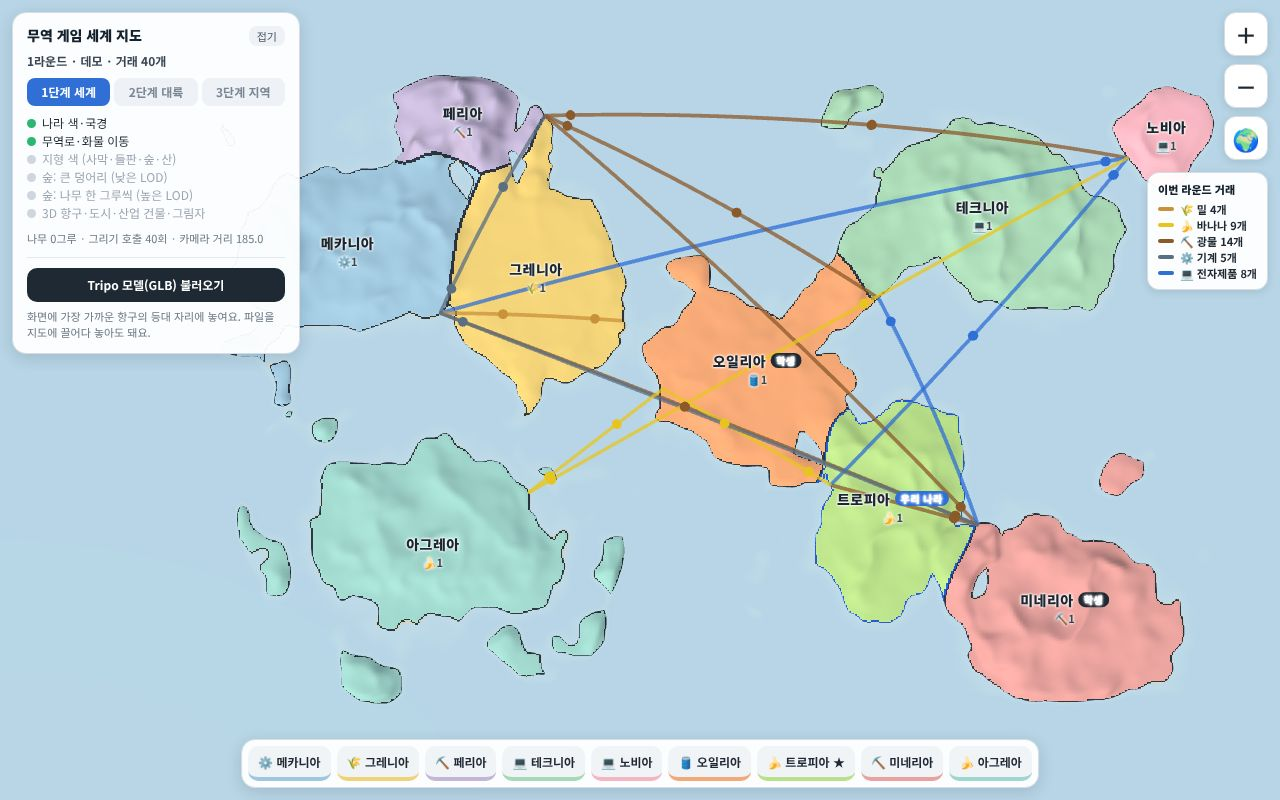
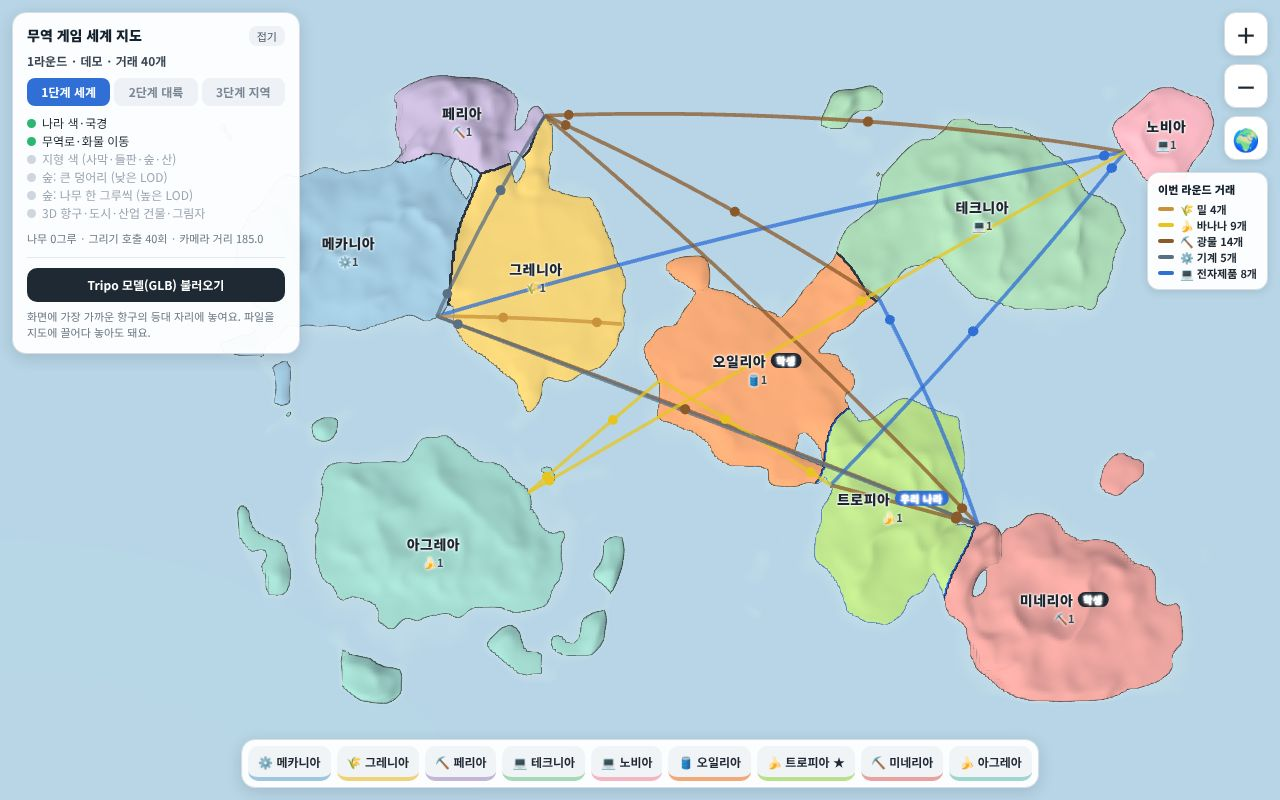
세계 지도: 멀리서 볼 때 해안선·국경 계단 무늬 없앰
- 나라 색을 부드러운(선형) 텍스처로 칠하고 육지 판정은 실제 지형 높이로 함
- 해안선은 화면 픽셀 기준(fwidth)으로 그려 매끈하게
- 해안에서 땅 높이가 0부터 이어지게 해 지형 격자를 따라 생기던 톱니 없앰
- 검사 15개 통과

Claude-Session: https://claude.ai/code/session_01DBh8zz2smfNDqNuUWMpsJ4

diff --git a/webapp/map/dist/world-map-demo.html b/webapp/map/dist/world-map-demo.html
@@ -92,7 +92,7 @@ function createWorldMap(container, THREE, opts) {
         var land = 1 - best;
         for (k = 0; k < BR.length; k++) { var b = BR[k], ex = b[2] - b[0], ez = b[3] - b[1], tt = clamp(((wx - b[0]) * ex + (wz - b[1]) * ez) / (ex * ex + ez * ez), 0.2, 0.8), qx = wx - b[0] - ex * tt, qz = wz - b[1] - ez * tt; land = Math.max(land, 1 - Math.sqrt(qx * qx + qz * qz) / b[4] - 0.25); }
         var isl = (fbm3(x * 0.07 + 100, z * 0.07, 15) - 0.69) * 4 - Math.max(0, best - 1.9) * 3; land = Math.max(land, isl);
-        var f = land + (fbm3(x * 0.11, z * 0.11, 3) - 0.5) * 0.5 + (vnoise(x * 0.4 + 7, z * 0.4, 5) - 0.5) * 0.1;
+        var f = land + (fbm3(x * 0.11, z * 0.11, 3) - 0.5) * 0.5 + (vnoise(x * 0.4 + 7, z * 0.4, 5) - 0.5) * 0.04;
         f -= sstep(WX - 14, WX - 3, Math.abs(x)) * 1.5 + sstep(WZ - 12, WZ - 3, Math.abs(z)) * 1.5;
         F[idx] = f;
         var sw = 0, mnt = 0, fp = 0; for (k = 0; k < BIOMES.length; k++) bAmt[k] = 0;
@@ -108,7 +108,7 @@ function createWorldMap(container, THREE, opts) {
           var r = fbm3(x * 0.085 + 50, z * 0.085 - 20, 4), ridge = 1 - Math.abs(2 * r - 1); ridge = ridge * ridge * ridge;
           var hills = fbm3(x * 0.25, z * 0.25, 6);
           h = 0.04 + sstep(0, 0.35, f) * 0.2 + mnt * ridge * 2.4 * sstep(0.05, 0.45, f) + (hills - 0.5) * 0.2 * (0.4 + mnt);
-          h = Math.max(0.03, h);
+          h = Math.min(Math.max(h, Math.min(0.03, f * 3.2)), f * 3.2); // 해안에서 높이가 0부터 이어지게(끊기면 해안선이 톱니가 됨)
           // 자연색
           c = [0, 0, 0]; for (k = 0; k < BIOMES.length; k++) { var bc = BIO[BIOMES[k]].c; c[0] += bc[0] * bAmt[k]; c[1] += bc[1] * bAmt[k]; c[2] += bc[2] * bAmt[k]; }
           var pl = bAmt[1];
@@ -315,9 +315,20 @@ function createWorldMap(container, THREE, opts) {
 
   // ───────────────────────── 지형 메시 ─────────────────────────
   for (var fi = 0; fi < FW * FH; fi++) natData[fi * 4 + 3] = F[fi] > 0 ? clamp(FLD[fi] * 255, 0, 255) : 0;
+  var polCol = new Uint8Array(polData), seen = new Uint8Array(FW * FH);
+  for (var pi = 0; pi < FW * FH; pi++) seen[pi] = polData[pi * 4 + 3] > 0 ? 1 : 0;
+  for (var it = 0; it < 10; it++) {
+    var nxt = seen.slice();
+    for (var pj = 1; pj < FH - 1; pj++) for (var pk = 1; pk < FW - 1; pk++) {
+      var q0 = pj * FW + pk; if (seen[q0]) continue;
+      var nb = seen[q0 - 1] ? q0 - 1 : seen[q0 + 1] ? q0 + 1 : seen[q0 - FW] ? q0 - FW : seen[q0 + FW] ? q0 + FW : -1;
+      if (nb < 0) continue; polCol[q0 * 4] = polCol[nb * 4]; polCol[q0 * 4 + 1] = polCol[nb * 4 + 1]; polCol[q0 * 4 + 2] = polCol[nb * 4 + 2]; nxt[q0] = 1;
+    }
+    seen = nxt;
+  }
   function dataTex(data, linear) { var t = new THREE.DataTexture(data, FW, FH, THREE.RGBAFormat); t.magFilter = t.minFilter = linear ? THREE.LinearFilter : THREE.NearestFilter; t.generateMipmaps = false; t.needsUpdate = true; return t; }
-  var natTex = dataTex(natData, true), polTex = dataTex(polData, false);
-  var terrU = { uMix: { value: 1 }, uSel: { value: -1 }, uMe: { value: -1 }, uDetail: { value: 0 }, uBorder: { value: 1 }, uPol: { value: polTex }, uTexel: { value: new THREE.Vector2(1 / FW, 1 / FH) } };
+  var natTex = dataTex(natData, true), polTex = dataTex(polData, false), polColTex = dataTex(polCol, true);
+  var terrU = { uMix: { value: 1 }, uSel: { value: -1 }, uMe: { value: -1 }, uDetail: { value: 0 }, uBorder: { value: 1 }, uPol: { value: polTex }, uPolC: { value: polColTex }, uTexel: { value: new THREE.Vector2(1 / FW, 1 / FH) } };
   var terrGeo = (function () {
     var step = 2, VW = FW / step + 1, VH = FH / step + 1, pos = new Float32Array(VW * VH * 3), uv = new Float32Array(VW * VH * 2);
     for (var j = 0; j < VH; j++) for (var i = 0; i < VW; i++) {
@@ -331,9 +342,9 @@ function createWorldMap(container, THREE, opts) {
   var terrMat = new THREE.MeshLambertMaterial({ map: natTex });
   terrMat.onBeforeCompile = function (sh) {
     for (var k in terrU) sh.uniforms[k] = terrU[k];
-    sh.vertexShader = sh.vertexShader.replace('#include <common>', '#include <common>\nvarying vec2 vXZ;').replace('#include <begin_vertex>', '#include <begin_vertex>\nvXZ = position.xz;');
+    sh.vertexShader = sh.vertexShader.replace('#include <common>', '#include <common>\nvarying vec2 vXZ;\nvarying float vY;').replace('#include <begin_vertex>', '#include <begin_vertex>\nvXZ = position.xz; vY = position.y;');
     sh.fragmentShader = sh.fragmentShader.replace('#include <common>', [
-      '#include <common>', 'uniform float uMix; uniform float uSel; uniform float uMe; uniform float uDetail; uniform float uBorder;', 'uniform sampler2D uPol; uniform vec2 uTexel;', 'varying vec2 vXZ;',
+      '#include <common>', 'uniform float uMix; uniform float uSel; uniform float uMe; uniform float uDetail; uniform float uBorder;', 'uniform sampler2D uPol; uniform sampler2D uPolC; uniform vec2 uTexel;', 'varying vec2 vXZ;', 'varying float vY;',
       'float h21(vec2 p){ return fract(sin(dot(p, vec2(127.1,311.7)))*43758.5453); }',
       'float vn2(vec2 p){ vec2 i=floor(p); vec2 f=fract(p); f=f*f*(3.0-2.0*f); return mix(mix(h21(i),h21(i+vec2(1.0,0.0)),f.x), mix(h21(i+vec2(0.0,1.0)),h21(i+vec2(1.0,1.0)),f.x), f.y); }'].join('\n'))
       .replace('#include <map_fragment>', [
@@ -344,15 +355,21 @@ function createWorldMap(container, THREE, opts) {
         '  fcol = mix(fcol, diffuseColor.rgb, 0.3); float fedge = min(min(fq.x, 1.0 - fq.x), min(fq.y, 1.0 - fq.y)); fcol *= mix(0.8, 1.0, smoothstep(0.0, 0.05, fedge)) * (0.95 + 0.05 * sin(fq0.x * 60.0));',
         '  diffuseColor.rgb = mix(diffuseColor.rgb, fcol, fa * step(0.2, h21(fcell + 3.0)));',
         '  diffuseColor.rgb *= mix(1.0, 0.82 + 0.34*dn, uDetail);',
-        '  vec4 pc = texture2D(uPol, vUv); float a0 = pc.a; float land = step(0.02, a0);',
-        '  float bd = step(0.01, abs(texture2D(uPol, vUv + vec2(uTexel.x, 0.0)).a - a0)) + step(0.01, abs(texture2D(uPol, vUv - vec2(uTexel.x, 0.0)).a - a0))',
-        '           + step(0.01, abs(texture2D(uPol, vUv + vec2(0.0, uTexel.y)).a - a0)) + step(0.01, abs(texture2D(uPol, vUv - vec2(0.0, uTexel.y)).a - a0));',
-        '  bd = clamp(bd, 0.0, 1.0) * (0.55 + 0.45 * uMix);',
+        '  float a0 = texture2D(uPol, vUv).a;',
+        '  float land = smoothstep(-0.004, 0.02, vY);',
+        '  vec3 pcol = texture2D(uPolC, vUv).rgb;',
+        '  vec2 hx = vec2(uTexel.x * 0.6, 0.0); vec2 hy = vec2(0.0, uTexel.y * 0.6);',
+        '  float g = length(texture2D(uPolC, vUv + hx).rgb - texture2D(uPolC, vUv - hx).rgb) + length(texture2D(uPolC, vUv + hy).rgb - texture2D(uPolC, vUv - hy).rgb);',
+        '  float bd = smoothstep(0.05, 0.2, g) * land;',
+        '  float coast = 0.0;',
+        '#if __VERSION__ >= 300',
+        '  coast = (1.0 - smoothstep(0.0, fwidth(vY) * 1.6 + 0.0001, vY)) * step(0.0, vY);',
+        '#endif',
         '  float nid = floor(a0 * 255.0 / 20.0 + 0.5) - 1.0;',
-        '  diffuseColor.rgb = mix(diffuseColor.rgb, pc.rgb, uMix * land);',
-        '  if (land > 0.5 && abs(nid - uSel) < 0.5) diffuseColor.rgb = mix(diffuseColor.rgb, vec3(1.0, 0.94, 0.6), 0.45);',
-        '  float me = (land > 0.5 && abs(nid - uMe) < 0.5) ? 1.0 : 0.0;',
-        '  diffuseColor.rgb = mix(diffuseColor.rgb, mix(vec3(0.17, 0.21, 0.26), vec3(0.12, 0.35, 0.85), me), clamp(bd, 0.0, 1.0) * land * uBorder);'
+        '  diffuseColor.rgb = mix(diffuseColor.rgb, pcol, uMix * land);',
+        '  if (land > 0.5 && a0 > 0.02 && abs(nid - uSel) < 0.5) diffuseColor.rgb = mix(diffuseColor.rgb, vec3(1.0, 0.94, 0.6), 0.45);',
+        '  float me = (a0 > 0.02 && abs(nid - uMe) < 0.5) ? 1.0 : 0.0;',
+        '  diffuseColor.rgb = mix(diffuseColor.rgb, mix(vec3(0.17, 0.21, 0.26), vec3(0.12, 0.35, 0.85), me), clamp(bd * (0.55 + 0.45 * uMix) + coast * uMix * 0.85, 0.0, 1.0) * uBorder);'
       ].join('\n'));
   };
   var terrain = new THREE.Mesh(terrGeo, terrMat); terrain.receiveShadow = true; scene.add(terrain);

diff --git a/webapp/map/dist/world-map-demo.jsx b/webapp/map/dist/world-map-demo.jsx
@@ -83,7 +83,7 @@ function createWorldMap(container, THREE, opts) {
         var land = 1 - best;
         for (k = 0; k < BR.length; k++) { var b = BR[k], ex = b[2] - b[0], ez = b[3] - b[1], tt = clamp(((wx - b[0]) * ex + (wz - b[1]) * ez) / (ex * ex + ez * ez), 0.2, 0.8), qx = wx - b[0] - ex * tt, qz = wz - b[1] - ez * tt; land = Math.max(land, 1 - Math.sqrt(qx * qx + qz * qz) / b[4] - 0.25); }
         var isl = (fbm3(x * 0.07 + 100, z * 0.07, 15) - 0.69) * 4 - Math.max(0, best - 1.9) * 3; land = Math.max(land, isl);
-        var f = land + (fbm3(x * 0.11, z * 0.11, 3) - 0.5) * 0.5 + (vnoise(x * 0.4 + 7, z * 0.4, 5) - 0.5) * 0.1;
+        var f = land + (fbm3(x * 0.11, z * 0.11, 3) - 0.5) * 0.5 + (vnoise(x * 0.4 + 7, z * 0.4, 5) - 0.5) * 0.04;
         f -= sstep(WX - 14, WX - 3, Math.abs(x)) * 1.5 + sstep(WZ - 12, WZ - 3, Math.abs(z)) * 1.5;
         F[idx] = f;
         var sw = 0, mnt = 0, fp = 0; for (k = 0; k < BIOMES.length; k++) bAmt[k] = 0;
@@ -99,7 +99,7 @@ function createWorldMap(container, THREE, opts) {
           var r = fbm3(x * 0.085 + 50, z * 0.085 - 20, 4), ridge = 1 - Math.abs(2 * r - 1); ridge = ridge * ridge * ridge;
           var hills = fbm3(x * 0.25, z * 0.25, 6);
           h = 0.04 + sstep(0, 0.35, f) * 0.2 + mnt * ridge * 2.4 * sstep(0.05, 0.45, f) + (hills - 0.5) * 0.2 * (0.4 + mnt);
-          h = Math.max(0.03, h);
+          h = Math.min(Math.max(h, Math.min(0.03, f * 3.2)), f * 3.2); // 해안에서 높이가 0부터 이어지게(끊기면 해안선이 톱니가 됨)
           // 자연색
           c = [0, 0, 0]; for (k = 0; k < BIOMES.length; k++) { var bc = BIO[BIOMES[k]].c; c[0] += bc[0] * bAmt[k]; c[1] += bc[1] * bAmt[k]; c[2] += bc[2] * bAmt[k]; }
           var pl = bAmt[1];
@@ -306,9 +306,20 @@ function createWorldMap(container, THREE, opts) {
 
   // ───────────────────────── 지형 메시 ─────────────────────────
   for (var fi = 0; fi < FW * FH; fi++) natData[fi * 4 + 3] = F[fi] > 0 ? clamp(FLD[fi] * 255, 0, 255) : 0;
+  var polCol = new Uint8Array(polData), seen = new Uint8Array(FW * FH);
+  for (var pi = 0; pi < FW * FH; pi++) seen[pi] = polData[pi * 4 + 3] > 0 ? 1 : 0;
+  for (var it = 0; it < 10; it++) {
+    var nxt = seen.slice();
+    for (var pj = 1; pj < FH - 1; pj++) for (var pk = 1; pk < FW - 1; pk++) {
+      var q0 = pj * FW + pk; if (seen[q0]) continue;
+      var nb = seen[q0 - 1] ? q0 - 1 : seen[q0 + 1] ? q0 + 1 : seen[q0 - FW] ? q0 - FW : seen[q0 + FW] ? q0 + FW : -1;
+      if (nb < 0) continue; polCol[q0 * 4] = polCol[nb * 4]; polCol[q0 * 4 + 1] = polCol[nb * 4 + 1]; polCol[q0 * 4 + 2] = polCol[nb * 4 + 2]; nxt[q0] = 1;
+    }
+    seen = nxt;
+  }
   function dataTex(data, linear) { var t = new THREE.DataTexture(data, FW, FH, THREE.RGBAFormat); t.magFilter = t.minFilter = linear ? THREE.LinearFilter : THREE.NearestFilter; t.generateMipmaps = false; t.needsUpdate = true; return t; }
-  var natTex = dataTex(natData, true), polTex = dataTex(polData, false);
-  var terrU = { uMix: { value: 1 }, uSel: { value: -1 }, uMe: { value: -1 }, uDetail: { value: 0 }, uBorder: { value: 1 }, uPol: { value: polTex }, uTexel: { value: new THREE.Vector2(1 / FW, 1 / FH) } };
+  var natTex = dataTex(natData, true), polTex = dataTex(polData, false), polColTex = dataTex(polCol, true);
+  var terrU = { uMix: { value: 1 }, uSel: { value: -1 }, uMe: { value: -1 }, uDetail: { value: 0 }, uBorder: { value: 1 }, uPol: { value: polTex }, uPolC: { value: polColTex }, uTexel: { value: new THREE.Vector2(1 / FW, 1 / FH) } };
   var terrGeo = (function () {
     var step = 2, VW = FW / step + 1, VH = FH / step + 1, pos = new Float32Array(VW * VH * 3), uv = new Float32Array(VW * VH * 2);
     for (var j = 0; j < VH; j++) for (var i = 0; i < VW; i++) {
@@ -322,9 +333,9 @@ function createWorldMap(container, THREE, opts) {
   var terrMat = new THREE.MeshLambertMaterial({ map: natTex });
   terrMat.onBeforeCompile = function (sh) {
     for (var k in terrU) sh.uniforms[k] = terrU[k];
-    sh.vertexShader = sh.vertexShader.replace('#include <common>', '#include <common>\nvarying vec2 vXZ;').replace('#include <begin_vertex>', '#include <begin_vertex>\nvXZ = position.xz;');
+    sh.vertexShader = sh.vertexShader.replace('#include <common>', '#include <common>\nvarying vec2 vXZ;\nvarying float vY;').replace('#include <begin_vertex>', '#include <begin_vertex>\nvXZ = position.xz; vY = position.y;');
     sh.fragmentShader = sh.fragmentShader.replace('#include <common>', [
-      '#include <common>', 'uniform float uMix; uniform float uSel; uniform float uMe; uniform float uDetail; uniform float uBorder;', 'uniform sampler2D uPol; uniform vec2 uTexel;', 'varying vec2 vXZ;',
+      '#include <common>', 'uniform float uMix; uniform float uSel; uniform float uMe; uniform float uDetail; uniform float uBorder;', 'uniform sampler2D uPol; uniform sampler2D uPolC; uniform vec2 uTexel;', 'varying vec2 vXZ;', 'varying float vY;',
       'float h21(vec2 p){ return fract(sin(dot(p, vec2(127.1,311.7)))*43758.5453); }',
       'float vn2(vec2 p){ vec2 i=floor(p); vec2 f=fract(p); f=f*f*(3.0-2.0*f); return mix(mix(h21(i),h21(i+vec2(1.0,0.0)),f.x), mix(h21(i+vec2(0.0,1.0)),h21(i+vec2(1.0,1.0)),f.x), f.y); }'].join('\n'))
       .replace('#include <map_fragment>', [
@@ -335,15 +346,21 @@ function createWorldMap(container, THREE, opts) {
         '  fcol = mix(fcol, diffuseColor.rgb, 0.3); float fedge = min(min(fq.x, 1.0 - fq.x), min(fq.y, 1.0 - fq.y)); fcol *= mix(0.8, 1.0, smoothstep(0.0, 0.05, fedge)) * (0.95 + 0.05 * sin(fq0.x * 60.0));',
         '  diffuseColor.rgb = mix(diffuseColor.rgb, fcol, fa * step(0.2, h21(fcell + 3.0)));',
         '  diffuseColor.rgb *= mix(1.0, 0.82 + 0.34*dn, uDetail);',
-        '  vec4 pc = texture2D(uPol, vUv); float a0 = pc.a; float land = step(0.02, a0);',
-        '  float bd = step(0.01, abs(texture2D(uPol, vUv + vec2(uTexel.x, 0.0)).a - a0)) + step(0.01, abs(texture2D(uPol, vUv - vec2(uTexel.x, 0.0)).a - a0))',
-        '           + step(0.01, abs(texture2D(uPol, vUv + vec2(0.0, uTexel.y)).a - a0)) + step(0.01, abs(texture2D(uPol, vUv - vec2(0.0, uTexel.y)).a - a0));',
-        '  bd = clamp(bd, 0.0, 1.0) * (0.55 + 0.45 * uMix);',
+        '  float a0 = texture2D(uPol, vUv).a;',
+        '  float land = smoothstep(-0.004, 0.02, vY);',
+        '  vec3 pcol = texture2D(uPolC, vUv).rgb;',
+        '  vec2 hx = vec2(uTexel.x * 0.6, 0.0); vec2 hy = vec2(0.0, uTexel.y * 0.6);',
+        '  float g = length(texture2D(uPolC, vUv + hx).rgb - texture2D(uPolC, vUv - hx).rgb) + length(texture2D(uPolC, vUv + hy).rgb - texture2D(uPolC, vUv - hy).rgb);',
+        '  float bd = smoothstep(0.05, 0.2, g) * land;',
+        '  float coast = 0.0;',
+        '#if __VERSION__ >= 300',
+        '  coast = (1.0 - smoothstep(0.0, fwidth(vY) * 1.6 + 0.0001, vY)) * step(0.0, vY);',
+        '#endif',
         '  float nid = floor(a0 * 255.0 / 20.0 + 0.5) - 1.0;',
-        '  diffuseColor.rgb = mix(diffuseColor.rgb, pc.rgb, uMix * land);',
-        '  if (land > 0.5 && abs(nid - uSel) < 0.5) diffuseColor.rgb = mix(diffuseColor.rgb, vec3(1.0, 0.94, 0.6), 0.45);',
-        '  float me = (land > 0.5 && abs(nid - uMe) < 0.5) ? 1.0 : 0.0;',
-        '  diffuseColor.rgb = mix(diffuseColor.rgb, mix(vec3(0.17, 0.21, 0.26), vec3(0.12, 0.35, 0.85), me), clamp(bd, 0.0, 1.0) * land * uBorder);'
+        '  diffuseColor.rgb = mix(diffuseColor.rgb, pcol, uMix * land);',
+        '  if (land > 0.5 && a0 > 0.02 && abs(nid - uSel) < 0.5) diffuseColor.rgb = mix(diffuseColor.rgb, vec3(1.0, 0.94, 0.6), 0.45);',
+        '  float me = (a0 > 0.02 && abs(nid - uMe) < 0.5) ? 1.0 : 0.0;',
+        '  diffuseColor.rgb = mix(diffuseColor.rgb, mix(vec3(0.17, 0.21, 0.26), vec3(0.12, 0.35, 0.85), me), clamp(bd * (0.55 + 0.45 * uMix) + coast * uMix * 0.85, 0.0, 1.0) * uBorder);'
       ].join('\n'));
   };
   var terrain = new THREE.Mesh(terrGeo, terrMat); terrain.receiveShadow = true; scene.add(terrain);

diff --git a/webapp/map/src/map-core.js b/webapp/map/src/map-core.js
@@ -78,7 +78,7 @@ function createWorldMap(container, THREE, opts) {
         var land = 1 - best;
         for (k = 0; k < BR.length; k++) { var b = BR[k], ex = b[2] - b[0], ez = b[3] - b[1], tt = clamp(((wx - b[0]) * ex + (wz - b[1]) * ez) / (ex * ex + ez * ez), 0.2, 0.8), qx = wx - b[0] - ex * tt, qz = wz - b[1] - ez * tt; land = Math.max(land, 1 - Math.sqrt(qx * qx + qz * qz) / b[4] - 0.25); }
         var isl = (fbm3(x * 0.07 + 100, z * 0.07, 15) - 0.69) * 4 - Math.max(0, best - 1.9) * 3; land = Math.max(land, isl);
-        var f = land + (fbm3(x * 0.11, z * 0.11, 3) - 0.5) * 0.5 + (vnoise(x * 0.4 + 7, z * 0.4, 5) - 0.5) * 0.1;
+        var f = land + (fbm3(x * 0.11, z * 0.11, 3) - 0.5) * 0.5 + (vnoise(x * 0.4 + 7, z * 0.4, 5) - 0.5) * 0.04;
         f -= sstep(WX - 14, WX - 3, Math.abs(x)) * 1.5 + sstep(WZ - 12, WZ - 3, Math.abs(z)) * 1.5;
         F[idx] = f;
         var sw = 0, mnt = 0, fp = 0; for (k = 0; k < BIOMES.length; k++) bAmt[k] = 0;
@@ -94,7 +94,7 @@ function createWorldMap(container, THREE, opts) {
           var r = fbm3(x * 0.085 + 50, z * 0.085 - 20, 4), ridge = 1 - Math.abs(2 * r - 1); ridge = ridge * ridge * ridge;
           var hills = fbm3(x * 0.25, z * 0.25, 6);
           h = 0.04 + sstep(0, 0.35, f) * 0.2 + mnt * ridge * 2.4 * sstep(0.05, 0.45, f) + (hills - 0.5) * 0.2 * (0.4 + mnt);
-          h = Math.max(0.03, h);
+          h = Math.min(Math.max(h, Math.min(0.03, f * 3.2)), f * 3.2); // 해안에서 높이가 0부터 이어지게(끊기면 해안선이 톱니가 됨)
           // 자연색
           c = [0, 0, 0]; for (k = 0; k < BIOMES.length; k++) { var bc = BIO[BIOMES[k]].c; c[0] += bc[0] * bAmt[k]; c[1] += bc[1] * bAmt[k]; c[2] += bc[2] * bAmt[k]; }
           var pl = bAmt[1];
@@ -301,9 +301,20 @@ function createWorldMap(container, THREE, opts) {
 
   // ───────────────────────── 지형 메시 ─────────────────────────
   for (var fi = 0; fi < FW * FH; fi++) natData[fi * 4 + 3] = F[fi] > 0 ? clamp(FLD[fi] * 255, 0, 255) : 0;
+  var polCol = new Uint8Array(polData), seen = new Uint8Array(FW * FH);
+  for (var pi = 0; pi < FW * FH; pi++) seen[pi] = polData[pi * 4 + 3] > 0 ? 1 : 0;
+  for (var it = 0; it < 10; it++) {
+    var nxt = seen.slice();
+    for (var pj = 1; pj < FH - 1; pj++) for (var pk = 1; pk < FW - 1; pk++) {
+      var q0 = pj * FW + pk; if (seen[q0]) continue;
+      var nb = seen[q0 - 1] ? q0 - 1 : seen[q0 + 1] ? q0 + 1 : seen[q0 - FW] ? q0 - FW : seen[q0 + FW] ? q0 + FW : -1;
+      if (nb < 0) continue; polCol[q0 * 4] = polCol[nb * 4]; polCol[q0 * 4 + 1] = polCol[nb * 4 + 1]; polCol[q0 * 4 + 2] = polCol[nb * 4 + 2]; nxt[q0] = 1;
+    }
+    seen = nxt;
+  }
   function dataTex(data, linear) { var t = new THREE.DataTexture(data, FW, FH, THREE.RGBAFormat); t.magFilter = t.minFilter = linear ? THREE.LinearFilter : THREE.NearestFilter; t.generateMipmaps = false; t.needsUpdate = true; return t; }
-  var natTex = dataTex(natData, true), polTex = dataTex(polData, false);
-  var terrU = { uMix: { value: 1 }, uSel: { value: -1 }, uMe: { value: -1 }, uDetail: { value: 0 }, uBorder: { value: 1 }, uPol: { value: polTex }, uTexel: { value: new THREE.Vector2(1 / FW, 1 / FH) } };
+  var natTex = dataTex(natData, true), polTex = dataTex(polData, false), polColTex = dataTex(polCol, true);
+  var terrU = { uMix: { value: 1 }, uSel: { value: -1 }, uMe: { value: -1 }, uDetail: { value: 0 }, uBorder: { value: 1 }, uPol: { value: polTex }, uPolC: { value: polColTex }, uTexel: { value: new THREE.Vector2(1 / FW, 1 / FH) } };
   var terrGeo = (function () {
     var step = 2, VW = FW / step + 1, VH = FH / step + 1, pos = new Float32Array(VW * VH * 3), uv = new Float32Array(VW * VH * 2);
     for (var j = 0; j < VH; j++) for (var i = 0; i < VW; i++) {
@@ -317,9 +328,9 @@ function createWorldMap(container, THREE, opts) {
   var terrMat = new THREE.MeshLambertMaterial({ map: natTex });
   terrMat.onBeforeCompile = function (sh) {
     for (var k in terrU) sh.uniforms[k] = terrU[k];
-    sh.vertexShader = sh.vertexShader.replace('#include <common>', '#include <common>\nvarying vec2 vXZ;').replace('#include <begin_vertex>', '#include <begin_vertex>\nvXZ = position.xz;');
+    sh.vertexShader = sh.vertexShader.replace('#include <common>', '#include <common>\nvarying vec2 vXZ;\nvarying float vY;').replace('#include <begin_vertex>', '#include <begin_vertex>\nvXZ = position.xz; vY = position.y;');
     sh.fragmentShader = sh.fragmentShader.replace('#include <common>', [
-      '#include <common>', 'uniform float uMix; uniform float uSel; uniform float uMe; uniform float uDetail; uniform float uBorder;', 'uniform sampler2D uPol; uniform vec2 uTexel;', 'varying vec2 vXZ;',
+      '#include <common>', 'uniform float uMix; uniform float uSel; uniform float uMe; uniform float uDetail; uniform float uBorder;', 'uniform sampler2D uPol; uniform sampler2D uPolC; uniform vec2 uTexel;', 'varying vec2 vXZ;', 'varying float vY;',
       'float h21(vec2 p){ return fract(sin(dot(p, vec2(127.1,311.7)))*43758.5453); }',
       'float vn2(vec2 p){ vec2 i=floor(p); vec2 f=fract(p); f=f*f*(3.0-2.0*f); return mix(mix(h21(i),h21(i+vec2(1.0,0.0)),f.x), mix(h21(i+vec2(0.0,1.0)),h21(i+vec2(1.0,1.0)),f.x), f.y); }'].join('\n'))
       .replace('#include <map_fragment>', [
@@ -330,15 +341,21 @@ function createWorldMap(container, THREE, opts) {
         '  fcol = mix(fcol, diffuseColor.rgb, 0.3); float fedge = min(min(fq.x, 1.0 - fq.x), min(fq.y, 1.0 - fq.y)); fcol *= mix(0.8, 1.0, smoothstep(0.0, 0.05, fedge)) * (0.95 + 0.05 * sin(fq0.x * 60.0));',
         '  diffuseColor.rgb = mix(diffuseColor.rgb, fcol, fa * step(0.2, h21(fcell + 3.0)));',
         '  diffuseColor.rgb *= mix(1.0, 0.82 + 0.34*dn, uDetail);',
-        '  vec4 pc = texture2D(uPol, vUv); float a0 = pc.a; float land = step(0.02, a0);',
-        '  float bd = step(0.01, abs(texture2D(uPol, vUv + vec2(uTexel.x, 0.0)).a - a0)) + step(0.01, abs(texture2D(uPol, vUv - vec2(uTexel.x, 0.0)).a - a0))',
-        '           + step(0.01, abs(texture2D(uPol, vUv + vec2(0.0, uTexel.y)).a - a0)) + step(0.01, abs(texture2D(uPol, vUv - vec2(0.0, uTexel.y)).a - a0));',
-        '  bd = clamp(bd, 0.0, 1.0) * (0.55 + 0.45 * uMix);',
+        '  float a0 = texture2D(uPol, vUv).a;',
+        '  float land = smoothstep(-0.004, 0.02, vY);',
+        '  vec3 pcol = texture2D(uPolC, vUv).rgb;',
+        '  vec2 hx = vec2(uTexel.x * 0.6, 0.0); vec2 hy = vec2(0.0, uTexel.y * 0.6);',
+        '  float g = length(texture2D(uPolC, vUv + hx).rgb - texture2D(uPolC, vUv - hx).rgb) + length(texture2D(uPolC, vUv + hy).rgb - texture2D(uPolC, vUv - hy).rgb);',
+        '  float bd = smoothstep(0.05, 0.2, g) * land;',
+        '  float coast = 0.0;',
+        '#if __VERSION__ >= 300',
+        '  coast = (1.0 - smoothstep(0.0, fwidth(vY) * 1.6 + 0.0001, vY)) * step(0.0, vY);',
+        '#endif',
         '  float nid = floor(a0 * 255.0 / 20.0 + 0.5) - 1.0;',
-        '  diffuseColor.rgb = mix(diffuseColor.rgb, pc.rgb, uMix * land);',
-        '  if (land > 0.5 && abs(nid - uSel) < 0.5) diffuseColor.rgb = mix(diffuseColor.rgb, vec3(1.0, 0.94, 0.6), 0.45);',
-        '  float me = (land > 0.5 && abs(nid - uMe) < 0.5) ? 1.0 : 0.0;',
-        '  diffuseColor.rgb = mix(diffuseColor.rgb, mix(vec3(0.17, 0.21, 0.26), vec3(0.12, 0.35, 0.85), me), clamp(bd, 0.0, 1.0) * land * uBorder);'
+        '  diffuseColor.rgb = mix(diffuseColor.rgb, pcol, uMix * land);',
+        '  if (land > 0.5 && a0 > 0.02 && abs(nid - uSel) < 0.5) diffuseColor.rgb = mix(diffuseColor.rgb, vec3(1.0, 0.94, 0.6), 0.45);',
+        '  float me = (a0 > 0.02 && abs(nid - uMe) < 0.5) ? 1.0 : 0.0;',
+        '  diffuseColor.rgb = mix(diffuseColor.rgb, mix(vec3(0.17, 0.21, 0.26), vec3(0.12, 0.35, 0.85), me), clamp(bd * (0.55 + 0.45 * uMix) + coast * uMix * 0.85, 0.0, 1.0) * uBorder);'
       ].join('\n'));
   };
   var terrain = new THREE.Mesh(terrGeo, terrMat); terrain.receiveShadow = true; scene.add(terrain);

diff --git a/webapp/map/world-map.js b/webapp/map/world-map.js
@@ -79,7 +79,7 @@ function createWorldMap(container, THREE, opts) {
         var land = 1 - best;
         for (k = 0; k < BR.length; k++) { var b = BR[k], ex = b[2] - b[0], ez = b[3] - b[1], tt = clamp(((wx - b[0]) * ex + (wz - b[1]) * ez) / (ex * ex + ez * ez), 0.2, 0.8), qx = wx - b[0] - ex * tt, qz = wz - b[1] - ez * tt; land = Math.max(land, 1 - Math.sqrt(qx * qx + qz * qz) / b[4] - 0.25); }
         var isl = (fbm3(x * 0.07 + 100, z * 0.07, 15) - 0.69) * 4 - Math.max(0, best - 1.9) * 3; land = Math.max(land, isl);
-        var f = land + (fbm3(x * 0.11, z * 0.11, 3) - 0.5) * 0.5 + (vnoise(x * 0.4 + 7, z * 0.4, 5) - 0.5) * 0.1;
+        var f = land + (fbm3(x * 0.11, z * 0.11, 3) - 0.5) * 0.5 + (vnoise(x * 0.4 + 7, z * 0.4, 5) - 0.5) * 0.04;
         f -= sstep(WX - 14, WX - 3, Math.abs(x)) * 1.5 + sstep(WZ - 12, WZ - 3, Math.abs(z)) * 1.5;
         F[idx] = f;
         var sw = 0, mnt = 0, fp = 0; for (k = 0; k < BIOMES.length; k++) bAmt[k] = 0;
@@ -95,7 +95,7 @@ function createWorldMap(container, THREE, opts) {
           var r = fbm3(x * 0.085 + 50, z * 0.085 - 20, 4), ridge = 1 - Math.abs(2 * r - 1); ridge = ridge * ridge * ridge;
           var hills = fbm3(x * 0.25, z * 0.25, 6);
           h = 0.04 + sstep(0, 0.35, f) * 0.2 + mnt * ridge * 2.4 * sstep(0.05, 0.45, f) + (hills - 0.5) * 0.2 * (0.4 + mnt);
-          h = Math.max(0.03, h);
+          h = Math.min(Math.max(h, Math.min(0.03, f * 3.2)), f * 3.2); // 해안에서 높이가 0부터 이어지게(끊기면 해안선이 톱니가 됨)
           // 자연색
           c = [0, 0, 0]; for (k = 0; k < BIOMES.length; k++) { var bc = BIO[BIOMES[k]].c; c[0] += bc[0] * bAmt[k]; c[1] += bc[1] * bAmt[k]; c[2] += bc[2] * bAmt[k]; }
           var pl = bAmt[1];
@@ -302,9 +302,20 @@ function createWorldMap(container, THREE, opts) {
 
   // ───────────────────────── 지형 메시 ─────────────────────────
   for (var fi = 0; fi < FW * FH; fi++) natData[fi * 4 + 3] = F[fi] > 0 ? clamp(FLD[fi] * 255, 0, 255) : 0;
+  var polCol = new Uint8Array(polData), seen = new Uint8Array(FW * FH);
+  for (var pi = 0; pi < FW * FH; pi++) seen[pi] = polData[pi * 4 + 3] > 0 ? 1 : 0;
+  for (var it = 0; it < 10; it++) {
+    var nxt = seen.slice();
+    for (var pj = 1; pj < FH - 1; pj++) for (var pk = 1; pk < FW - 1; pk++) {
+      var q0 = pj * FW + pk; if (seen[q0]) continue;
+      var nb = seen[q0 - 1] ? q0 - 1 : seen[q0 + 1] ? q0 + 1 : seen[q0 - FW] ? q0 - FW : seen[q0 + FW] ? q0 + FW : -1;
+      if (nb < 0) continue; polCol[q0 * 4] = polCol[nb * 4]; polCol[q0 * 4 + 1] = polCol[nb * 4 + 1]; polCol[q0 * 4 + 2] = polCol[nb * 4 + 2]; nxt[q0] = 1;
+    }
+    seen = nxt;
+  }
   function dataTex(data, linear) { var t = new THREE.DataTexture(data, FW, FH, THREE.RGBAFormat); t.magFilter = t.minFilter = linear ? THREE.LinearFilter : THREE.NearestFilter; t.generateMipmaps = false; t.needsUpdate = true; return t; }
-  var natTex = dataTex(natData, true), polTex = dataTex(polData, false);
-  var terrU = { uMix: { value: 1 }, uSel: { value: -1 }, uMe: { value: -1 }, uDetail: { value: 0 }, uBorder: { value: 1 }, uPol: { value: polTex }, uTexel: { value: new THREE.Vector2(1 / FW, 1 / FH) } };
+  var natTex = dataTex(natData, true), polTex = dataTex(polData, false), polColTex = dataTex(polCol, true);
+  var terrU = { uMix: { value: 1 }, uSel: { value: -1 }, uMe: { value: -1 }, uDetail: { value: 0 }, uBorder: { value: 1 }, uPol: { value: polTex }, uPolC: { value: polColTex }, uTexel: { value: new THREE.Vector2(1 / FW, 1 / FH) } };
   var terrGeo = (function () {
     var step = 2, VW = FW / step + 1, VH = FH / step + 1, pos = new Float32Array(VW * VH * 3), uv = new Float32Array(VW * VH * 2);
     for (var j = 0; j < VH; j++) for (var i = 0; i < VW; i++) {
@@ -318,9 +329,9 @@ function createWorldMap(container, THREE, opts) {
   var terrMat = new THREE.MeshLambertMaterial({ map: natTex });
   terrMat.onBeforeCompile = function (sh) {
     for (var k in terrU) sh.uniforms[k] = terrU[k];
-    sh.vertexShader = sh.vertexShader.replace('#include <common>', '#include <common>\nvarying vec2 vXZ;').replace('#include <begin_vertex>', '#include <begin_vertex>\nvXZ = position.xz;');
+    sh.vertexShader = sh.vertexShader.replace('#include <common>', '#include <common>\nvarying vec2 vXZ;\nvarying float vY;').replace('#include <begin_vertex>', '#include <begin_vertex>\nvXZ = position.xz; vY = position.y;');
     sh.fragmentShader = sh.fragmentShader.replace('#include <common>', [
-      '#include <common>', 'uniform float uMix; uniform float uSel; uniform float uMe; uniform float uDetail; uniform float uBorder;', 'uniform sampler2D uPol; uniform vec2 uTexel;', 'varying vec2 vXZ;',
+      '#include <common>', 'uniform float uMix; uniform float uSel; uniform float uMe; uniform float uDetail; uniform float uBorder;', 'uniform sampler2D uPol; uniform sampler2D uPolC; uniform vec2 uTexel;', 'varying vec2 vXZ;', 'varying float vY;',
       'float h21(vec2 p){ return fract(sin(dot(p, vec2(127.1,311.7)))*43758.5453); }',
       'float vn2(vec2 p){ vec2 i=floor(p); vec2 f=fract(p); f=f*f*(3.0-2.0*f); return mix(mix(h21(i),h21(i+vec2(1.0,0.0)),f.x), mix(h21(i+vec2(0.0,1.0)),h21(i+vec2(1.0,1.0)),f.x), f.y); }'].join('\n'))
       .replace('#include <map_fragment>', [
@@ -331,15 +342,21 @@ function createWorldMap(container, THREE, opts) {
         '  fcol = mix(fcol, diffuseColor.rgb, 0.3); float fedge = min(min(fq.x, 1.0 - fq.x), min(fq.y, 1.0 - fq.y)); fcol *= mix(0.8, 1.0, smoothstep(0.0, 0.05, fedge)) * (0.95 + 0.05 * sin(fq0.x * 60.0));',
         '  diffuseColor.rgb = mix(diffuseColor.rgb, fcol, fa * step(0.2, h21(fcell + 3.0)));',
         '  diffuseColor.rgb *= mix(1.0, 0.82 + 0.34*dn, uDetail);',
-        '  vec4 pc = texture2D(uPol, vUv); float a0 = pc.a; float land = step(0.02, a0);',
-        '  float bd = step(0.01, abs(texture2D(uPol, vUv + vec2(uTexel.x, 0.0)).a - a0)) + step(0.01, abs(texture2D(uPol, vUv - vec2(uTexel.x, 0.0)).a - a0))',
-        '           + step(0.01, abs(texture2D(uPol, vUv + vec2(0.0, uTexel.y)).a - a0)) + step(0.01, abs(texture2D(uPol, vUv - vec2(0.0, uTexel.y)).a - a0));',
-        '  bd = clamp(bd, 0.0, 1.0) * (0.55 + 0.45 * uMix);',
+        '  float a0 = texture2D(uPol, vUv).a;',
+        '  float land = smoothstep(-0.004, 0.02, vY);',
+        '  vec3 pcol = texture2D(uPolC, vUv).rgb;',
+        '  vec2 hx = vec2(uTexel.x * 0.6, 0.0); vec2 hy = vec2(0.0, uTexel.y * 0.6);',
+        '  float g = length(texture2D(uPolC, vUv + hx).rgb - texture2D(uPolC, vUv - hx).rgb) + length(texture2D(uPolC, vUv + hy).rgb - texture2D(uPolC, vUv - hy).rgb);',
+        '  float bd = smoothstep(0.05, 0.2, g) * land;',
+        '  float coast = 0.0;',
+        '#if __VERSION__ >= 300',
+        '  coast = (1.0 - smoothstep(0.0, fwidth(vY) * 1.6 + 0.0001, vY)) * step(0.0, vY);',
+        '#endif',
         '  float nid = floor(a0 * 255.0 / 20.0 + 0.5) - 1.0;',
-        '  diffuseColor.rgb = mix(diffuseColor.rgb, pc.rgb, uMix * land);',
-        '  if (land > 0.5 && abs(nid - uSel) < 0.5) diffuseColor.rgb = mix(diffuseColor.rgb, vec3(1.0, 0.94, 0.6), 0.45);',
-        '  float me = (land > 0.5 && abs(nid - uMe) < 0.5) ? 1.0 : 0.0;',
-        '  diffuseColor.rgb = mix(diffuseColor.rgb, mix(vec3(0.17, 0.21, 0.26), vec3(0.12, 0.35, 0.85), me), clamp(bd, 0.0, 1.0) * land * uBorder);'
+        '  diffuseColor.rgb = mix(diffuseColor.rgb, pcol, uMix * land);',
+        '  if (land > 0.5 && a0 > 0.02 && abs(nid - uSel) < 0.5) diffuseColor.rgb = mix(diffuseColor.rgb, vec3(1.0, 0.94, 0.6), 0.45);',
+        '  float me = (a0 > 0.02 && abs(nid - uMe) < 0.5) ? 1.0 : 0.0;',
+        '  diffuseColor.rgb = mix(diffuseColor.rgb, mix(vec3(0.17, 0.21, 0.26), vec3(0.12, 0.35, 0.85), me), clamp(bd * (0.55 + 0.45 * uMix) + coast * uMix * 0.85, 0.0, 1.0) * uBorder);'
       ].join('\n'));
   };
   var terrain = new THREE.Mesh(terrGeo, terrMat); terrain.receiveShadow = true; scene.add(terrain);
